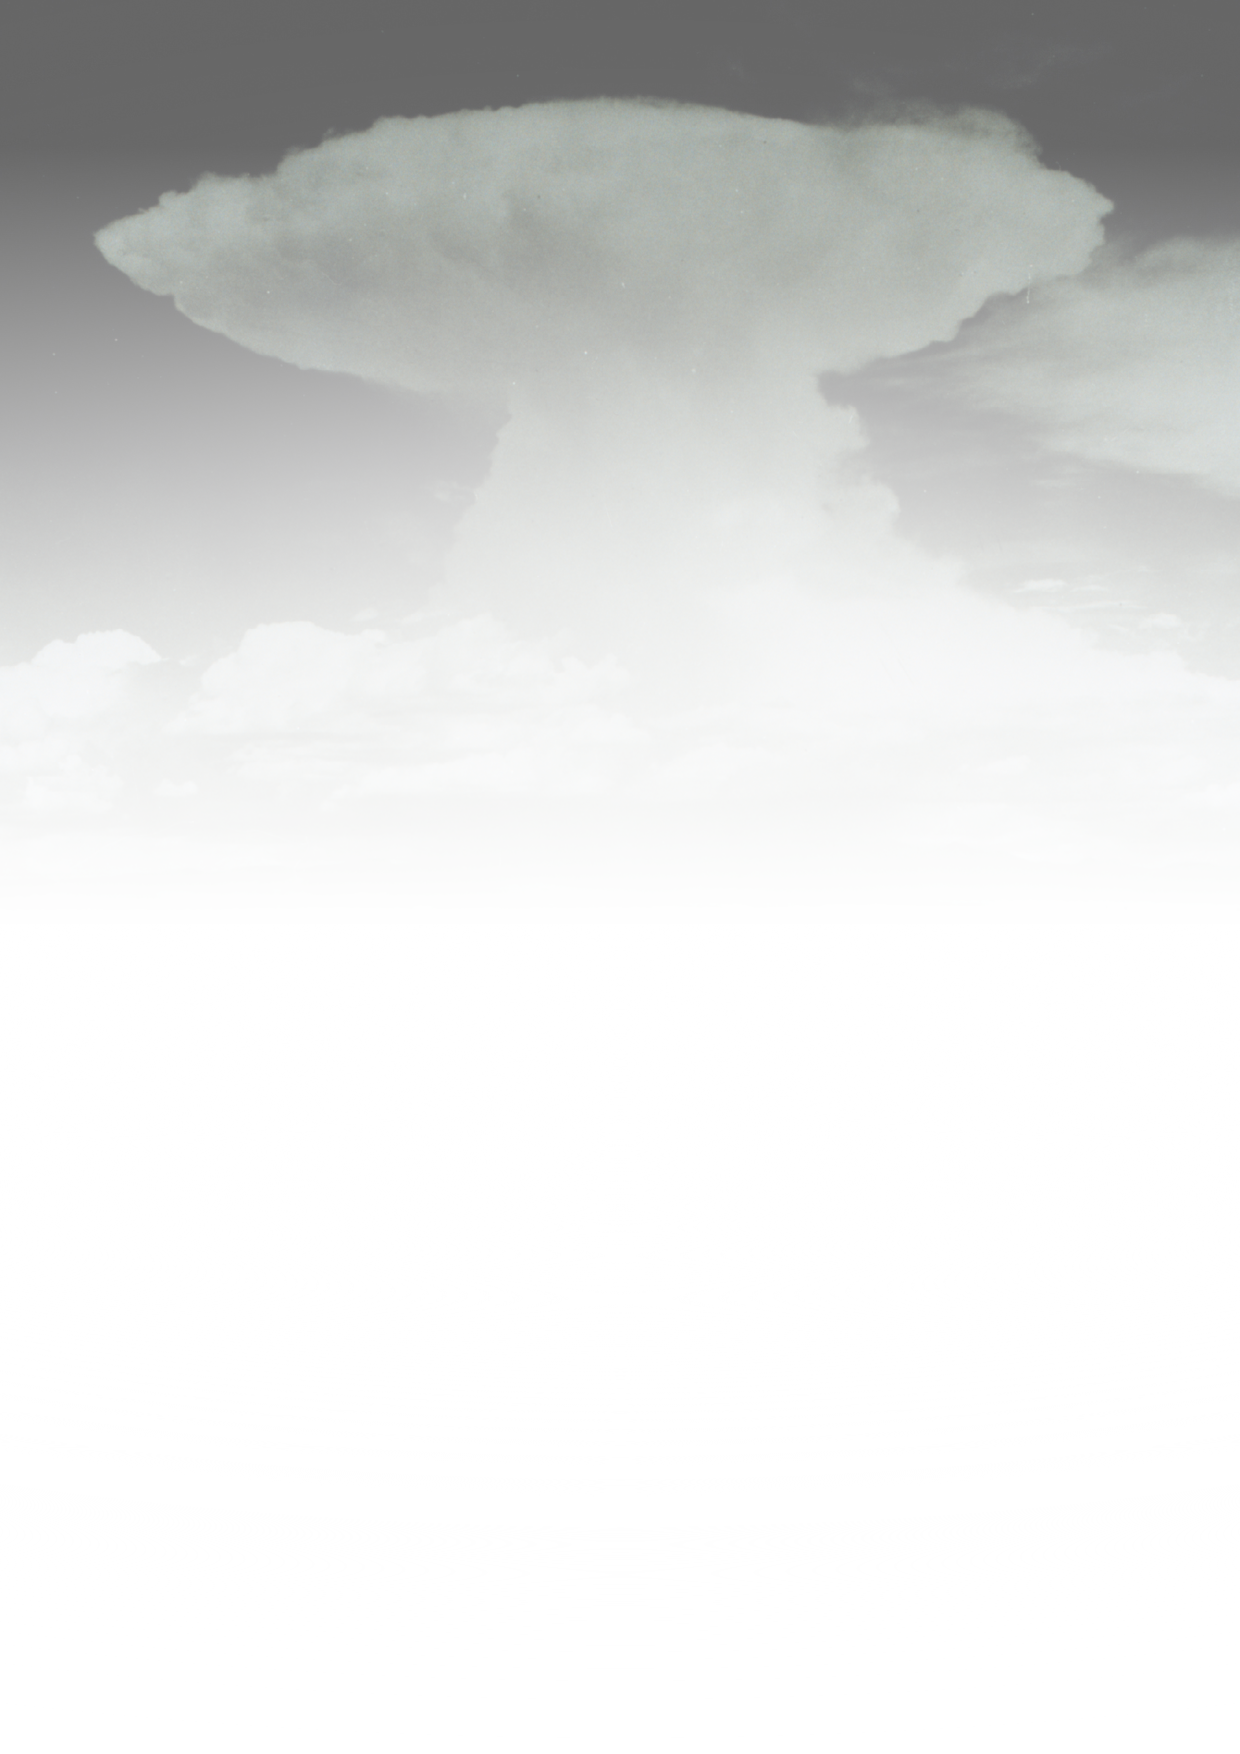
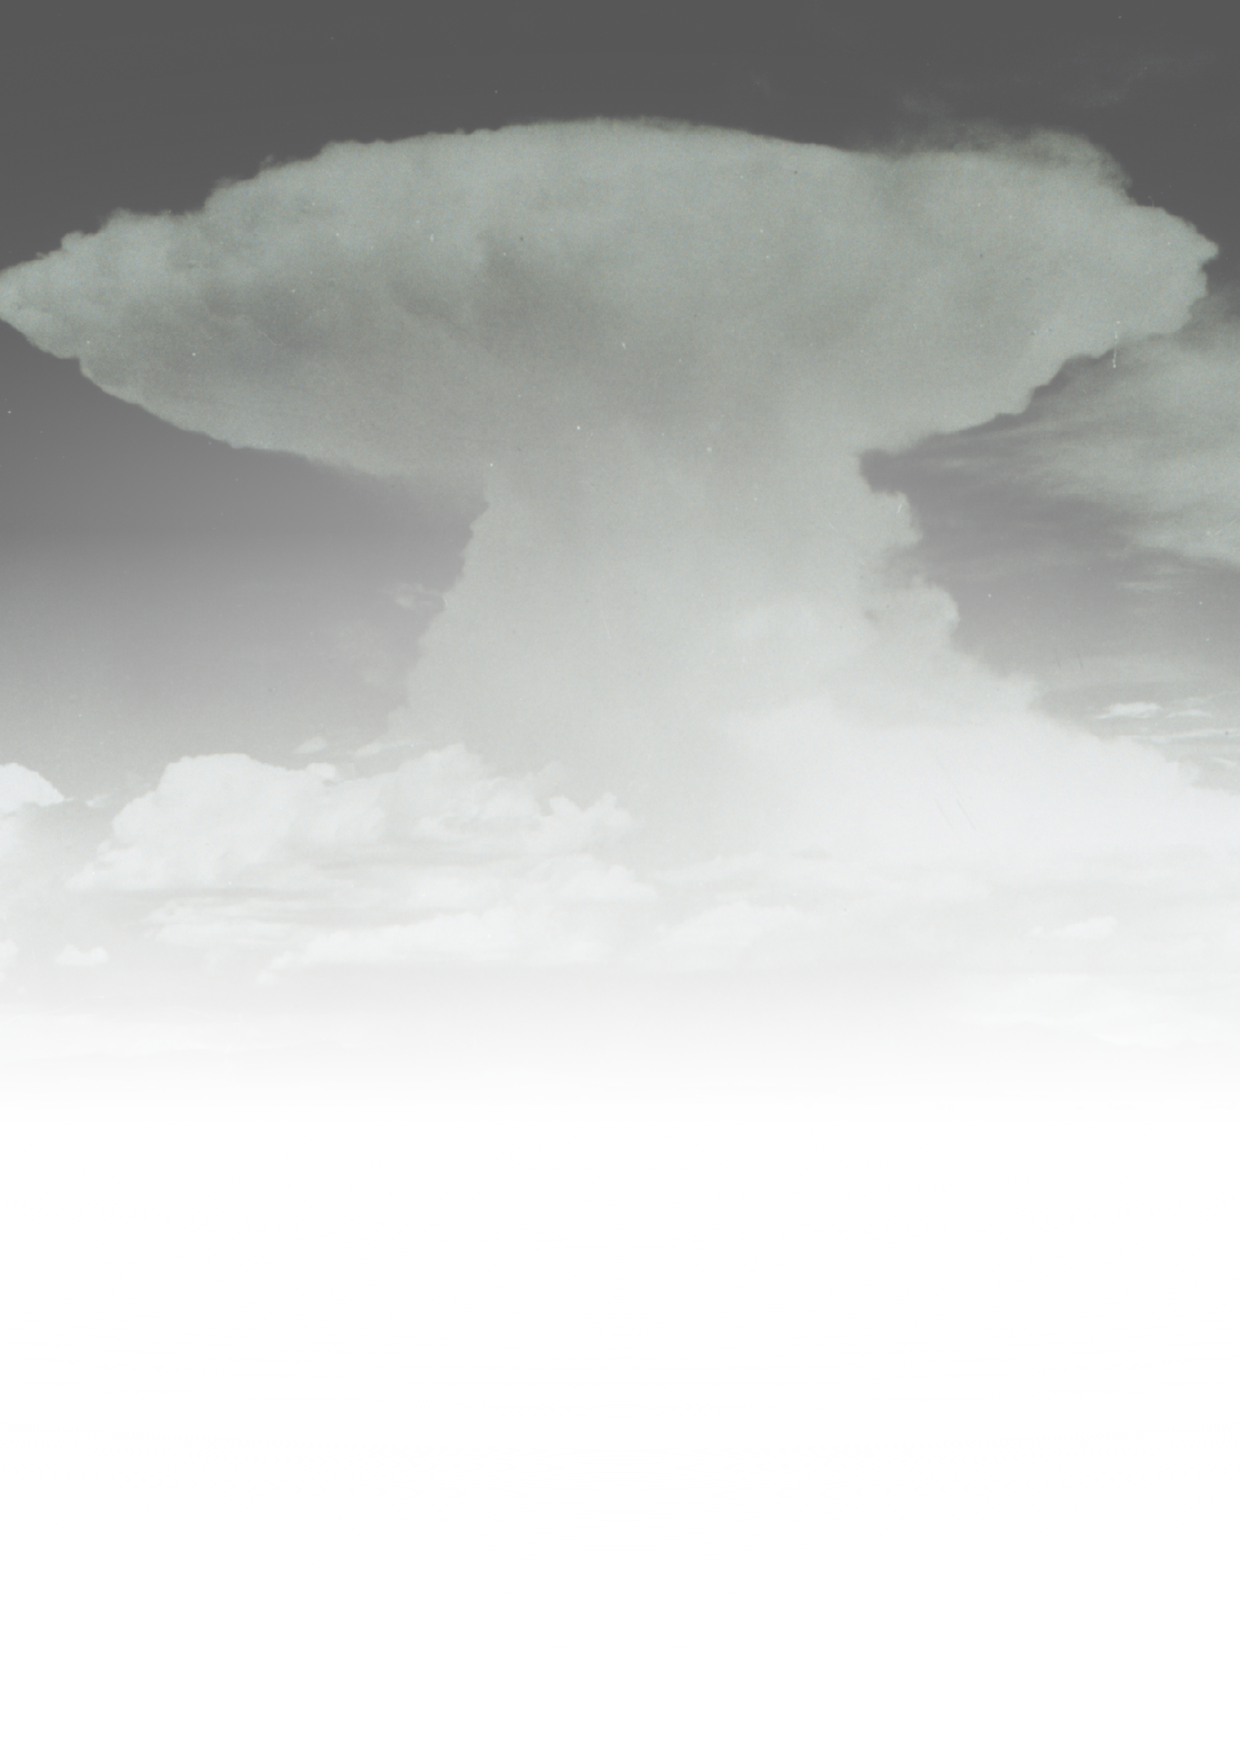
Manual: cover art, header, inventory tracker, spec-table firmware match
- Severe-weather cover backdrop (public-domain NOAA cumulonimbus) filled edge-to-edge;
  hero sensor window made transparent so the cloud shows behind the thermistor; logo
  balloon filled white; orange subtitle so it reads over the cloud.
- Header: larger PTHSonde (left) and TracerLab (right) logos, now on every page but the title.
- Chapter 5 reorganised (balloon choice + fill table + Fill Calculator in one section);
  flight-train diagram pinned; parachute drawn as a triangle.
- New appendix: Inventory & stock tracker (sonde / balloon / lift-gas), one table per page.
- Measurement spec table reconciled with firmware: 3 s downlink (TX_INTERVAL_MS=3000),
  1 Hz internal sampling, 5 s wind average; fixed stale quick-reference figures.

diff --git a/latax/main.tex b/latax/main.tex
@@ -17,6 +17,7 @@
 \usetikzlibrary{shapes.geometric,arrows.meta,positioning,calc,fit,backgrounds}
 \usepackage{booktabs}
 \usepackage{array}
+\usepackage{tabularx}
 \usepackage{enumitem}
 \usepackage{caption}
 \usepackage{float}
@@ -44,14 +45,24 @@
 \titleformat{\subsection}{\normalfont\large\bfseries\color{tldark}}{\color{tlorange}\thesubsection}{0.6em}{}
 
 % ---- Header / footer -------------------------------------------------------
+\setlength{\headheight}{34pt}
 \pagestyle{fancy}
 \fancyhf{}
-\renewcommand{\headrulewidth}{0.4pt}
-\renewcommand{\headrule}{\hbox to\headwidth{\color{tlorange}\leaders\hrule height \headrulewidth\hfill}}
-\fancyhead[L]{\footnotesize\color{tlgray}\textbf{PTH}\textcolor{tlorange}{\textbf{Sonde}}}
-\fancyhead[R]{\footnotesize\color{tlgray}User Manual \& Operations Guide}
-\fancyfoot[C]{\thepage}
-\fancyfoot[R]{\footnotesize\color{tlgray}Tracer Lab}
+\renewcommand{\headrulewidth}{0.9pt}
+\renewcommand{\headrule}{\vspace{2pt}\hbox to\headwidth{\color{tlorange}\leaders\hrule height \headrulewidth\hfill}}
+\fancyhead[L]{\raisebox{-6pt}{\includegraphics[height=19pt]{logo_pthsonde.png}}}
+\fancyhead[R]{\raisebox{-7pt}{\includegraphics[height=21pt]{logo_tracerlab.png}}}
+\fancyfoot[C]{\footnotesize\color{tlgray}\thepage}
+\fancyfoot[R]{\footnotesize\color{tlgray}User Manual \& Operations Guide}
+% same header/footer on chapter-opening pages (so every page but the title has it)
+\fancypagestyle{plain}{%
+  \fancyhf{}%
+  \renewcommand{\headrulewidth}{0.9pt}%
+  \fancyhead[L]{\raisebox{-6pt}{\includegraphics[height=19pt]{logo_pthsonde.png}}}%
+  \fancyhead[R]{\raisebox{-7pt}{\includegraphics[height=21pt]{logo_tracerlab.png}}}%
+  \fancyfoot[C]{\footnotesize\color{tlgray}\thepage}%
+  \fancyfoot[R]{\footnotesize\color{tlgray}User Manual \& Operations Guide}%
+}
 
 % ---- Callout boxes ---------------------------------------------------------
 \newtcolorbox{tip}{colback=tlorange!8,colframe=tlorange,boxrule=0.8pt,arc=3pt,
@@ -84,7 +95,7 @@
 
 {\color{tlorange}\rule{0.72\textwidth}{2pt}}\\[0.35cm]
 {\Huge\bfseries\color{tldark} Radiosonde System}\\[0.22cm]
-{\LARGE\color{tlgray} User Manual \& Operations Guide}\\[0.30cm]
+{\LARGE\color{tlorange} User Manual \& Operations Guide}\\[0.30cm]
 {\color{tlorange}\rule{0.72\textwidth}{2pt}}\\[0.7cm]
 
 \includegraphics[height=0.44\textheight]{sonde_hero.png}\\[0.5cm]
@@ -219,10 +230,10 @@ Relative humidity & $0$--$100\,\%$RH & $\pm1.8\,\%$RH & $0.1\,\%$RH & $\sim4$\,s
 Barometric pressure & $10$--$1200$\,hPa & $\pm1.5$\,hPa & $0.01$\,hPa & $<20$\,ms \\
 \rowcolor{tllight}
 Pressure altitude (derived) & $0$--$12$\,km & $\pm10$\,m & $1$\,m & $<1$\,s \\
-Wind speed & $0$--$90$\,m/s & $\pm0.5$\,m/s & $0.1$\,m/s & $1$\,s (1\,Hz) \\
+Wind speed & $0$--$90$\,m/s & $\pm0.5$\,m/s & $0.1$\,m/s & $3$\,s (downlink) \\
 \rowcolor{tllight}
-Wind direction & $0$--$360^\circ$ & $\pm5^\circ$ & $1^\circ$ & $1$\,s (1\,Hz) \\
-GPS position & global & $\pm2.5$\,m CEP & --- & $1$\,s (1\,Hz) \\
+Wind direction & $0$--$360^\circ$ & $\pm5^\circ$ & $1^\circ$ & $3$\,s (downlink) \\
+GPS position & global & $\pm2.5$\,m CEP & --- & $3$\,s (downlink) \\
 \bottomrule
 \end{tabular}
 \caption{Rated measurement performance of the \PTH{} sensor suite.}
@@ -234,7 +245,11 @@ through the boundary layer and into the lower and middle troposphere --- the alt
 that matter for boundary-layer research, convective profiling, and lower/mid-tropospheric
 soundings. Temperature is measured by a fast, directly-exposed bead thermistor for true
 air temperature; humidity and pressure are sensed by dedicated digital sensors; wind is
-derived at 1\,Hz from the GPS track.
+derived on the ground from the GPS track. All channels are sampled continuously (the
+sensors at 1\,Hz internally) and the complete set is transmitted together once every
+\textbf{3\,seconds} --- the downlink rate. The values in the \emph{Response} column are
+the sensors' physical $\tau_{63}$ time constants; GPS and wind refresh at the 3\,s
+downlink rate (wind is a 5\,s rolling average).
 \end{note}
 
 \section{The flight train mass}
@@ -553,11 +568,11 @@ Rig the train top-to-bottom so everything hangs in a straight line below the bal
   \node at (0,7) {\footnotesize balloon};
   \draw[tlgray] (-0.25,5.9) -- (0,5.55) -- (0.25,5.9); % neck
   % line to parachute
-  \draw[tldark] (0,5.55) -- (0,4.6);
-  % parachute
-  \draw[fill=tlblue!18,draw=tlblue,line width=1pt] (-0.9,4.6) .. controls (-0.5,4.1) and (0.5,4.1) .. (0.9,4.6) -- cycle;
-  \draw[tlgray] (-0.9,4.6) -- (0,3.7); \draw[tlgray] (0.9,4.6) -- (0,3.7); \draw[tlgray] (0,4.35) -- (0,3.7);
-  \node[right=6mm] at (0.9,4.35) {parachute};
+  \draw[tldark] (0,5.55) -- (0,4.7);
+  % parachute (triangular canopy, apex up)
+  \draw[fill=tlblue!18,draw=tlblue,line width=1pt] (-0.85,3.9) -- (0.85,3.9) -- (0,4.7) -- cycle;
+  \draw[tlgray] (0,3.9) -- (0,3.7);
+  \node[right=6mm] at (0.85,4.3) {parachute};
   % flight line
   \draw[tldark] (0,3.7) -- (0,2.4);
   \node[right=2mm] at (0,3.05) {flight line};
@@ -790,19 +805,93 @@ Radio band & 915\,MHz ISM (LoRa) \\
 Transmit power & 22\,dBm \\
 Flight train mass & $\approx$80\,g \\
 Target ascent rate & 5\,m/s \\
-Neck lift, 50\,g balloon & $\approx$365\,g \\
-Neck lift, 150\,g balloon & $\approx$450\,g \\
-Burst altitude, 50\,g / 150\,g & $\approx$11\,km / $\approx$20\,km \\
+Neck lift, 50\,g balloon (He) & $\approx$405\,g \\
+Neck lift, 150\,g balloon (He) & $\approx$487\,g \\
+Burst altitude, 50\,g / 150\,g & $\approx$12\,km / $\approx$20\,km \\
 Helium net lift & $\approx$1.05\,g/L \\
 \bottomrule
 \end{tabular}
 \caption{At-a-glance operating figures for the \PTH{} system.}
 \end{table}
 
-\vfill
-\begin{center}
-\includegraphics[width=0.28\textwidth]{logo_tracerlab.png}\\[4pt]
-{\color{tlgray}\small \PTH{} --- Tracer Lab}
-\end{center}
+\clearpage
+\section{Inventory \& stock tracker}
+Print or copy the following three pages to keep a running record of your hardware and
+consumables --- one page each for sondes, balloons and lift-gas cylinders.
+
+\clearpage
+\subsection*{Sonde inventory}
+{\renewcommand{\arraystretch}{2.6}\small
+\begin{tabularx}{\textwidth}{|>{\raggedright\arraybackslash}p{3.2cm}|>{\raggedright\arraybackslash}p{3.2cm}|X|}
+\hline
+\rowcolor{tlorange!22}
+\textbf{Sonde ID} & \textbf{Date flown} & \textbf{Notes} \\ \hline
+ & & \\ \hline
+ & & \\ \hline
+ & & \\ \hline
+ & & \\ \hline
+ & & \\ \hline
+ & & \\ \hline
+ & & \\ \hline
+ & & \\ \hline
+ & & \\ \hline
+ & & \\ \hline
+ & & \\ \hline
+ & & \\ \hline
+ & & \\ \hline
+ & & \\ \hline
+ & & \\ \hline
+ & & \\ \hline
+\end{tabularx}}
+
+\clearpage
+\subsection*{Balloon stock}
+{\renewcommand{\arraystretch}{2.6}\small
+\begin{tabularx}{\textwidth}{|>{\raggedright\arraybackslash}p{3.6cm}|>{\raggedright\arraybackslash}p{2.1cm}|>{\raggedright\arraybackslash}p{2.1cm}|>{\raggedright\arraybackslash}p{3.1cm}|X|}
+\hline
+\rowcolor{tlorange!22}
+\textbf{Balloon (size / make)} & \textbf{In stock} & \textbf{Reorder at} & \textbf{Supplier} & \textbf{Notes} \\ \hline
+ & & & & \\ \hline
+ & & & & \\ \hline
+ & & & & \\ \hline
+ & & & & \\ \hline
+ & & & & \\ \hline
+ & & & & \\ \hline
+ & & & & \\ \hline
+ & & & & \\ \hline
+ & & & & \\ \hline
+ & & & & \\ \hline
+ & & & & \\ \hline
+ & & & & \\ \hline
+ & & & & \\ \hline
+ & & & & \\ \hline
+ & & & & \\ \hline
+ & & & & \\ \hline
+\end{tabularx}}
+
+\clearpage
+\subsection*{Lift-gas cylinders}
+{\renewcommand{\arraystretch}{2.6}\small
+\begin{tabularx}{\textwidth}{|>{\raggedright\arraybackslash}p{2.4cm}|>{\raggedright\arraybackslash}p{1.6cm}|>{\raggedright\arraybackslash}p{2.0cm}|>{\raggedright\arraybackslash}p{2.1cm}|>{\raggedright\arraybackslash}p{2.3cm}|X|}
+\hline
+\rowcolor{tlorange!22}
+\textbf{Cylinder ID} & \textbf{Gas} & \textbf{Capacity} & \textbf{Level / PSI} & \textbf{Last filled} & \textbf{Notes} \\ \hline
+ & & & & & \\ \hline
+ & & & & & \\ \hline
+ & & & & & \\ \hline
+ & & & & & \\ \hline
+ & & & & & \\ \hline
+ & & & & & \\ \hline
+ & & & & & \\ \hline
+ & & & & & \\ \hline
+ & & & & & \\ \hline
+ & & & & & \\ \hline
+ & & & & & \\ \hline
+ & & & & & \\ \hline
+ & & & & & \\ \hline
+ & & & & & \\ \hline
+ & & & & & \\ \hline
+ & & & & & \\ \hline
+\end{tabularx}}
 
 \end{document}